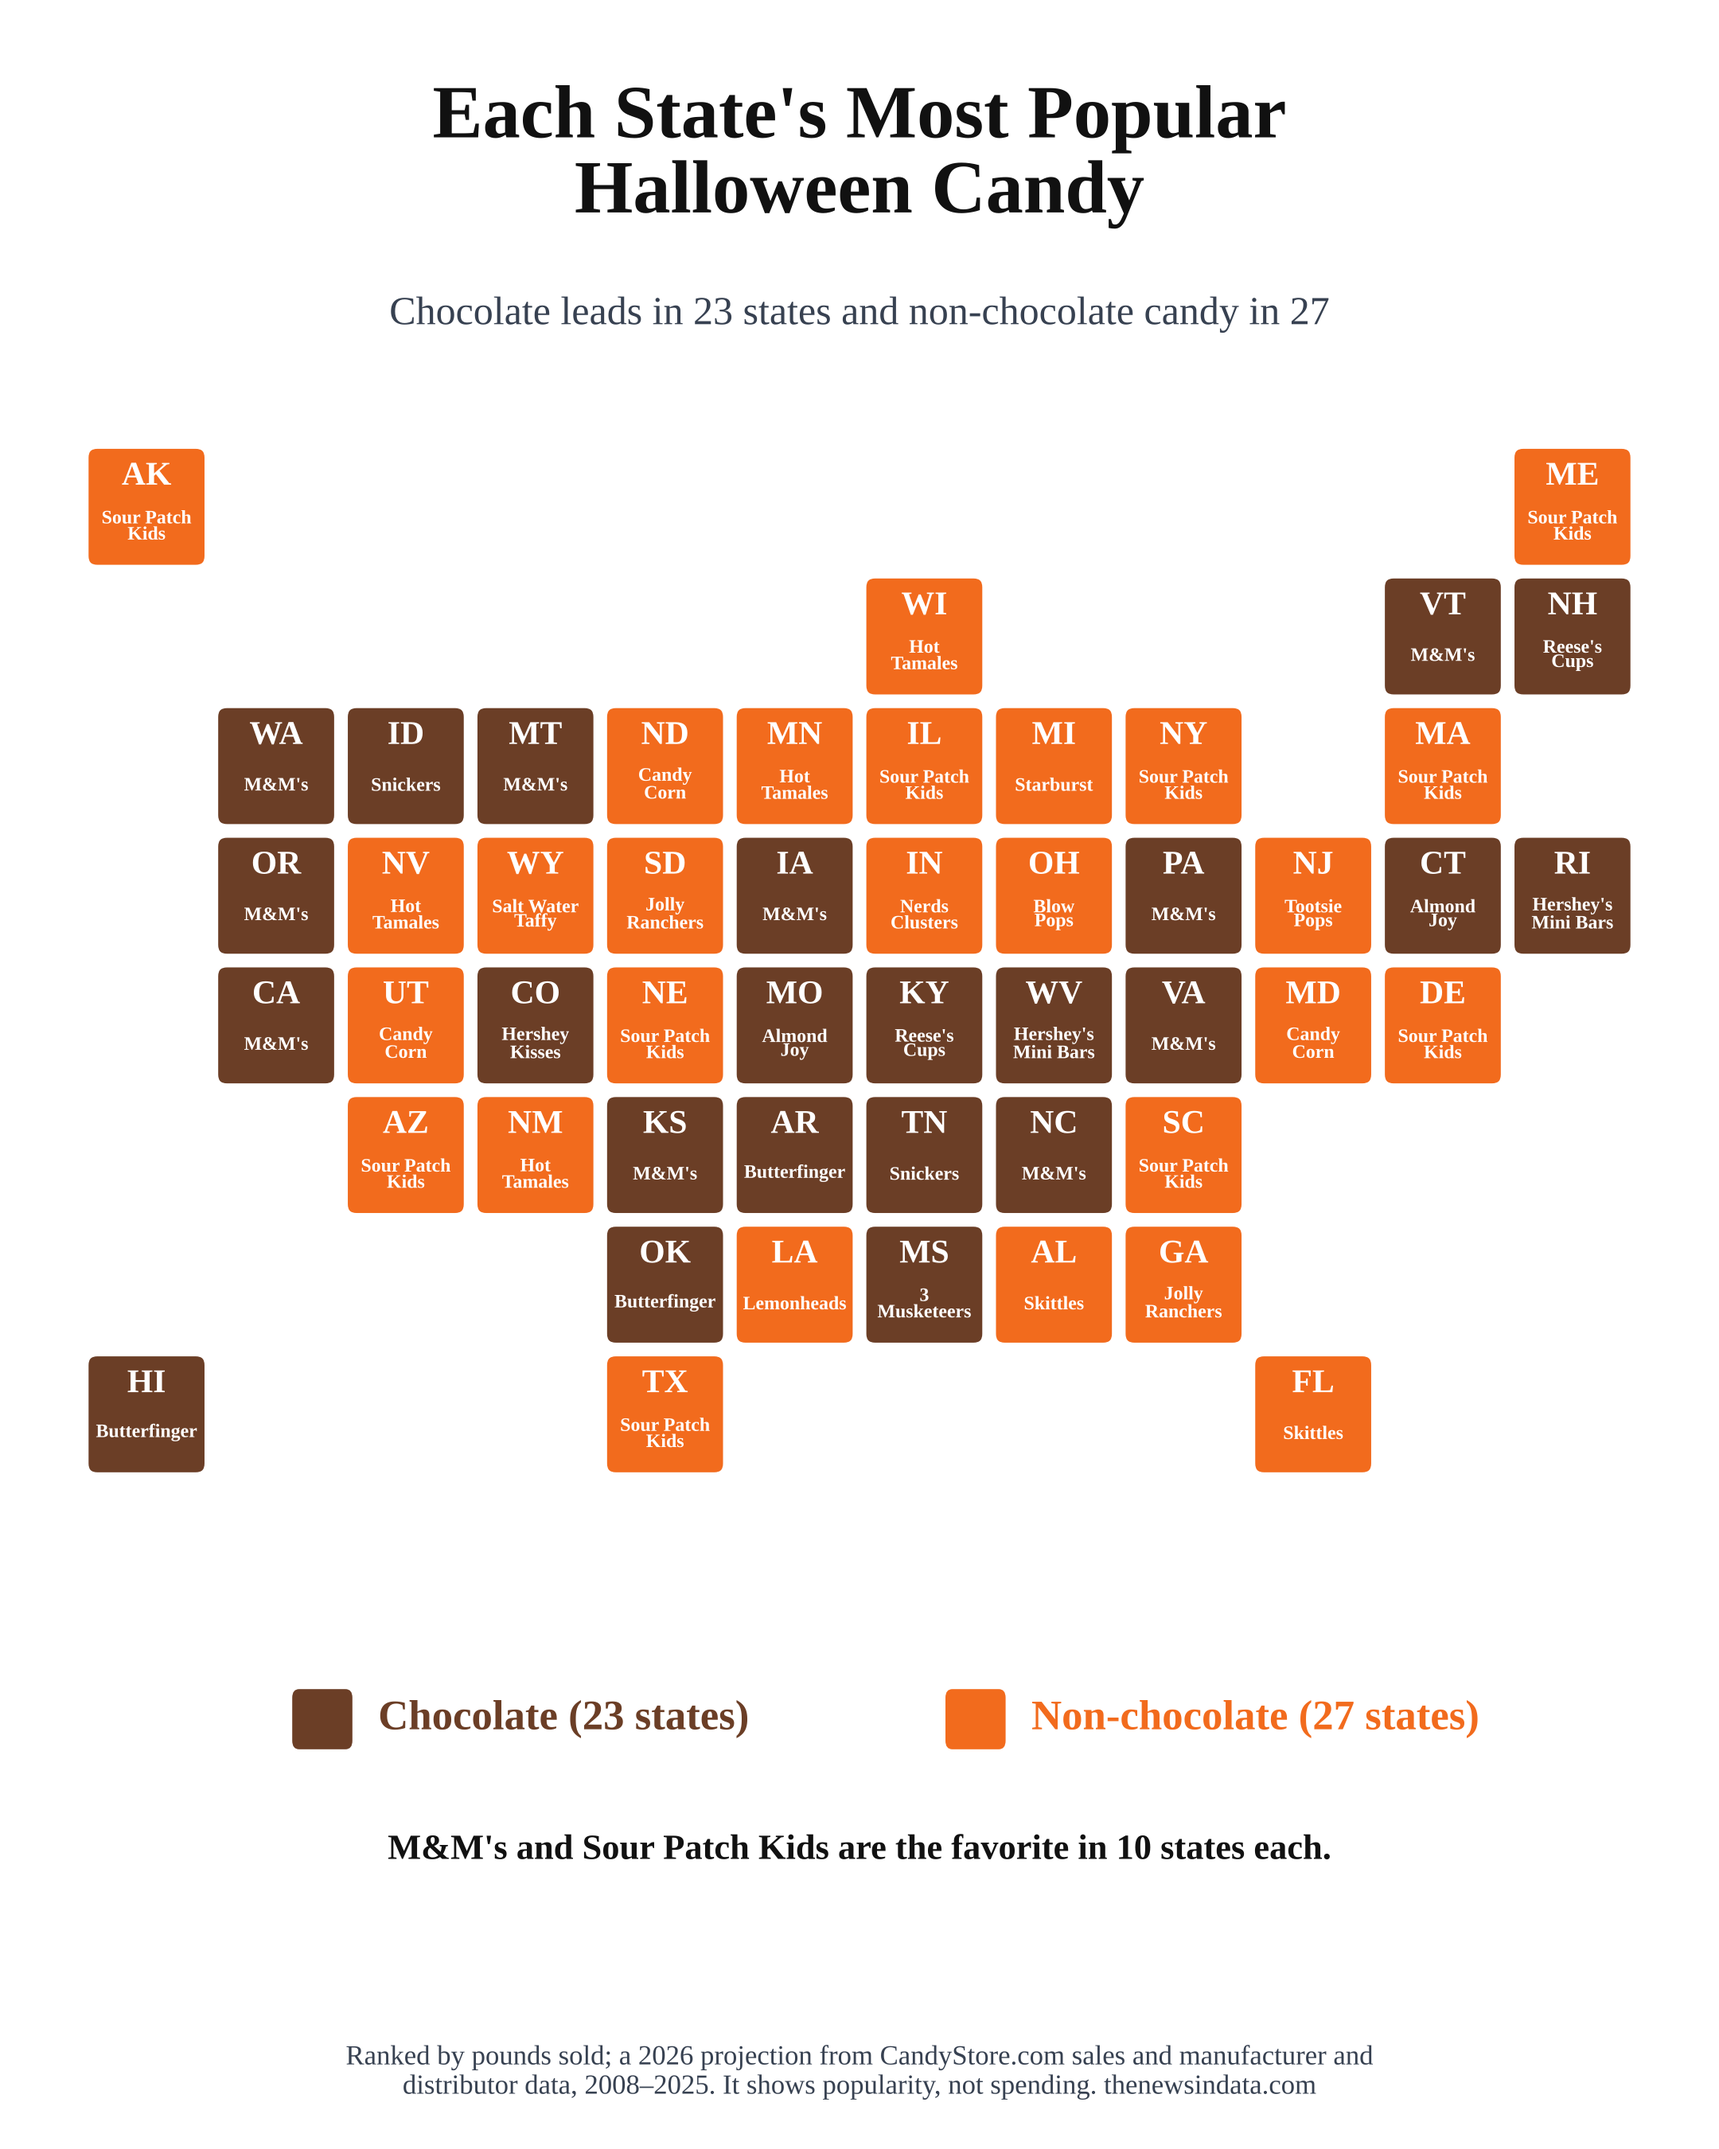
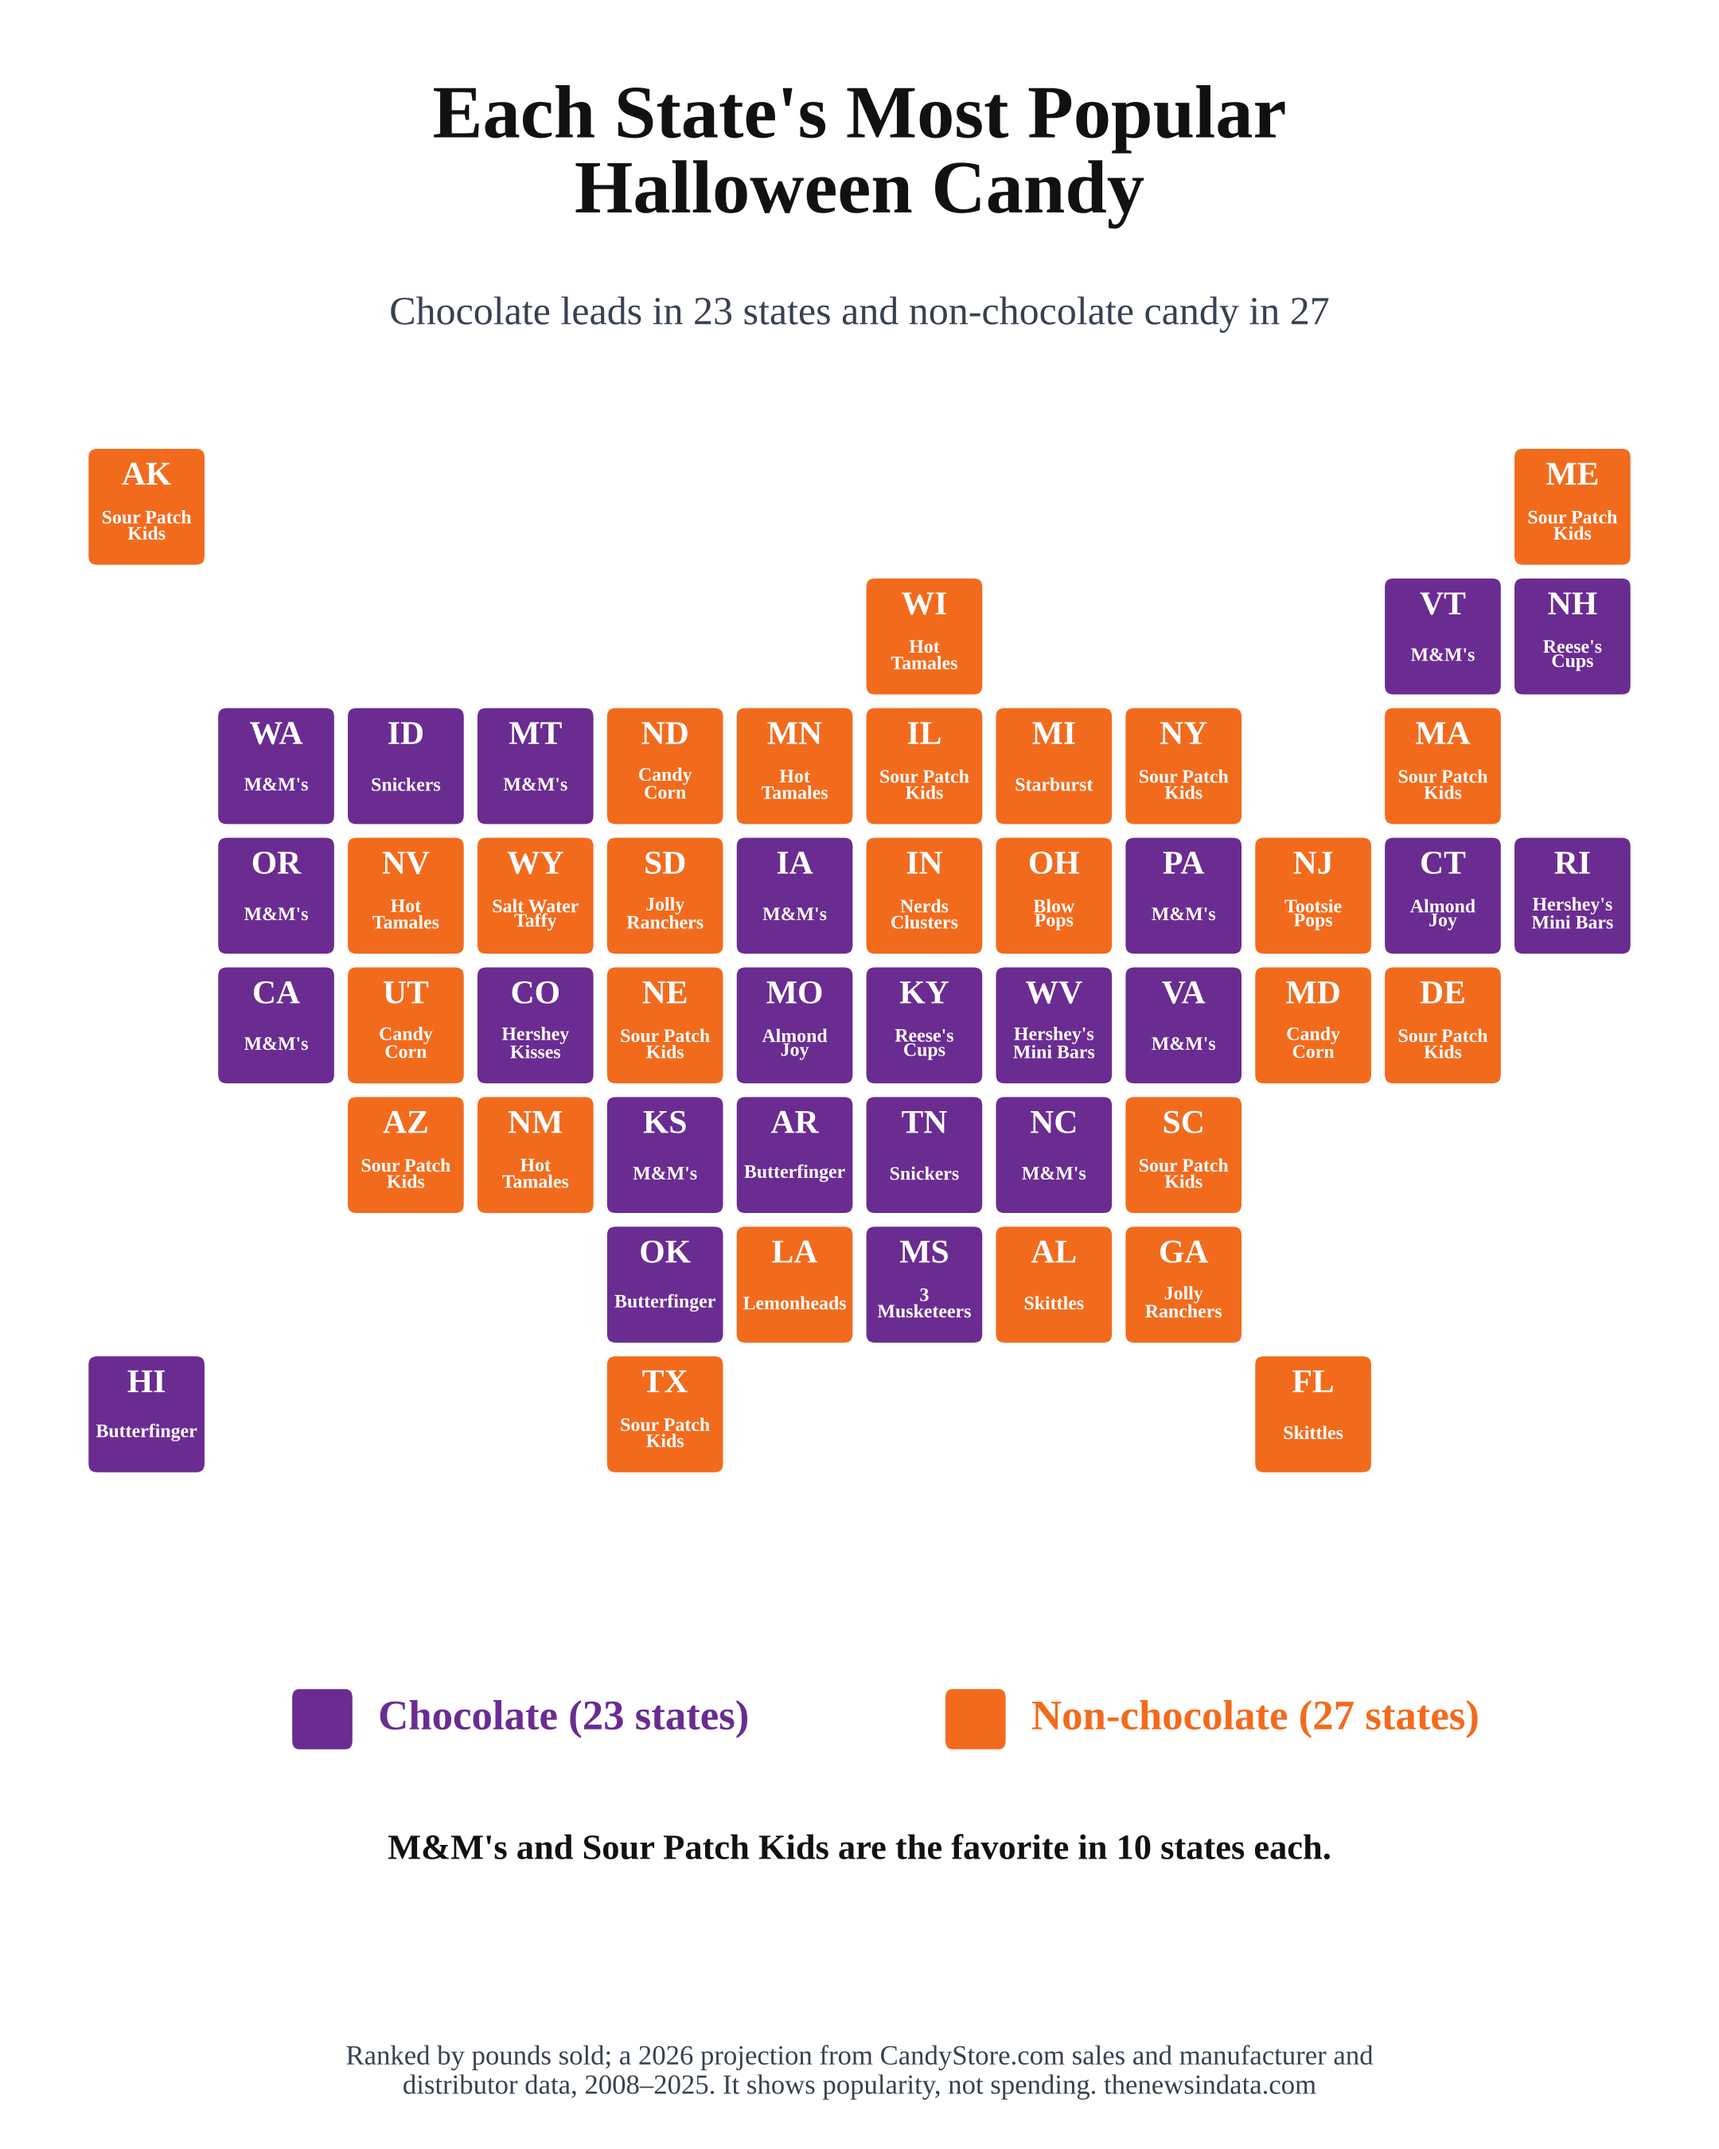
Halloween charts: consistent orange and purple palette
Claude-Session: https://claude.ai/code/session_014ps2HoqtiaDX9KtWWc6m6n

diff --git a/halloween/post-body.html b/halloween/post-body.html
@@ -1,6 +1,6 @@
 <style>.nid-a h2{margin:1.6em 0 .5em}.nid-a .nid-fig{margin:2.4em auto;max-width:620px}.nid-a .nid-fig img{width:100%;height:auto;display:block;border:1px solid #e6e3dd;border-radius:6px}.nid-a .nid-photo{max-width:520px}.nid-a .nid-fig figcaption{font-size:.82em;color:#5f7268;margin-top:.5em;line-height:1.4}.nid-a .nid-method{font-size:.92em;margin-top:2em}.nid-a .nid-fig.nid-wide{max-width:100%}.nid-a .nid-wide img{border-radius:8px}</style><div class="nid-a">
 <p>The United States had 30 children ages 5 to 14, the group the Census Bureau calls potential trick-or-treaters, for every 100 households in 2025, down from 35 in 2010. The number of children has edged down while the number of households has grown by about 17 million, so each door can expect fewer knocks. Fewer people also plan to answer: 61% of adults in this year's National Retail Federation survey plan to hand out candy, down from 69% in 2019.</p>
-<figure class="nid-fig"><img src="https://stories.thenewsindata.com/halloween/halloween-chart.png?v=1" alt="Two charts. The number of children ages 5 to 14 per 100 U.S. households fell from 34.9 in 2010 to 30.0 in 2025. The share of adults planning to hand out candy fell from 69% in 2019 to 61% in 2026." width="1080" height="1350"></figure>
+<figure class="nid-fig"><img src="https://stories.thenewsindata.com/halloween/halloween-chart.png?v=2" alt="Two charts. The number of children ages 5 to 14 per 100 U.S. households fell from 34.9 in 2010 to 30.0 in 2025. The share of adults planning to hand out candy fell from 69% in 2019 to 61% in 2026." width="1080" height="1350"></figure>
 <h2>Fewer children, more households</h2>
 <p>There were about 40.4 million children ages 5 to 14 in 2025, roughly 1.2 million fewer than in 2020, according to Census Bureau population estimates, as lower birth rates since 2008 move through the age group. The number of households grew from 117.5 million in 2010 to 134.8 million in 2025. Households have grown far faster than the number of children, so more homes on a typical street have no trick-or-treaters of their own.</p>
 <figure class="nid-fig nid-photo nid-wide"><img src="https://upload.wikimedia.org/wikipedia/commons/thumb/1/18/Schriever_AFB_hosts_trick-or-treat%2C_Halloween_Parade_%285884502%29.jpg/1280px-Schriever_AFB_hosts_trick-or-treat%2C_Halloween_Parade_%285884502%29.jpg" alt="A toddler in a white bunny costume outdoors in the snow" loading="lazy"><figcaption>A young trick-or-treater in a bunny costume at a Halloween parade in Colorado. Photo: <a href="https://commons.wikimedia.org/wiki/File:Schriever_AFB_hosts_trick-or-treat,_Halloween_Parade_(5884502).jpg">U.S. Air Force</a>, <a href="https://commons.wikimedia.org/wiki/Commons:Licensing">Public domain</a>, via Wikimedia Commons.</figcaption></figure>
@@ -11,13 +11,13 @@
 <figure class="nid-fig nid-photo nid-wide"><img src="https://upload.wikimedia.org/wikipedia/commons/thumb/7/74/Jack-O-Lantern_at_night.jpg/1280px-Jack-O-Lantern_at_night.jpg" alt="A carved jack-o-lantern glowing at night" loading="lazy"><figcaption>A jack-o-lantern on a porch. Photo: <a href="https://commons.wikimedia.org/wiki/File:Jack-O-Lantern_at_night.jpg">Alabama Extension</a>, <a href="https://creativecommons.org/publicdomain/zero/1.0/">CC0</a>, via Wikimedia Commons.</figcaption></figure>
 <h2>Each state&#x27;s favorite candy</h2>
 <p>No government agency or trade group publishes Halloween spending by state, so the map shows the next best thing, each state's most popular Halloween candy by pounds sold, from CandyStore.com. M&amp;M's and Sour Patch Kids lead 10 states each, and a non-chocolate candy is the favorite in 27 states. Utah, Maryland and North Dakota pick candy corn, Ohio picks Blow Pops and Wyoming picks salt water taffy.</p>
-<figure class="nid-fig"><img src="https://stories.thenewsindata.com/halloween/halloween-candy-map.png?v=1" alt="Tile map of each state&#x27;s most popular Halloween candy in 2026. Chocolate leads in 23 states and non-chocolate candy in 27; M&amp;M&#x27;s and Sour Patch Kids lead 10 states each." width="1080" height="1350"></figure>
+<figure class="nid-fig"><img src="https://stories.thenewsindata.com/halloween/halloween-candy-map.png?v=2" alt="Tile map of each state&#x27;s most popular Halloween candy in 2026. Chocolate leads in 23 states and non-chocolate candy in 27; M&amp;M&#x27;s and Sour Patch Kids lead 10 states each." width="1080" height="1350"></figure>
 <h2>Forty years of candy spending, region by region</h2>
 <p>The Bureau of Labor Statistics tracks what households spend on "sugar and other sweets," mostly candy and gum, by region. After adjusting for inflation, spending in every region drifted down from the mid-1990s to the late 2010s, then rose quickly in the 2020s. Western households spend the most, an average of $257 a year over 2022 to 2024 in 2024 dollars, and Southern households the least, $208.</p>
-<figure class="nid-fig"><img src="https://stories.thenewsindata.com/halloween/halloween-sweets.png?v=1" alt="Line chart of inflation-adjusted household spending on sugar and other sweets by Census region, 1984 to 2024. Spending fell from the mid-1990s to the late 2010s and rose in the 2020s; the West spends the most and the South the least." width="1080" height="1350"></figure>
+<figure class="nid-fig"><img src="https://stories.thenewsindata.com/halloween/halloween-sweets.png?v=2" alt="Line chart of inflation-adjusted household spending on sugar and other sweets by Census region, 1984 to 2024. Spending fell from the mid-1990s to the late 2010s and rose in the 2020s; the West spends the most and the South the least." width="1080" height="1350"></figure>
 <h2>Spider-Man and witches lead the costumes</h2>
 <p>About 4.6 million children plan to dress as Spider-Man, twice as many as the next costume, a generic superhero. Witch is the top adult costume at 4.8 million, followed by vampire at 4.2 million.</p>
-<figure class="nid-fig"><img src="https://stories.thenewsindata.com/halloween/halloween-costumes.png?v=1" alt="Bar charts of the top Halloween costumes in 2026. Children: Spider-Man 4.6 million, superhero 2.3 million, princess 2.2 million. Adults: witch 4.8 million, vampire 4.2 million, Batman 2 million." width="1080" height="1350"></figure>
+<figure class="nid-fig"><img src="https://stories.thenewsindata.com/halloween/halloween-costumes.png?v=2" alt="Bar charts of the top Halloween costumes in 2026. Children: Spider-Man 4.6 million, superhero 2.3 million, princess 2.2 million. Adults: witch 4.8 million, vampire 4.2 million, Batman 2 million." width="1080" height="1350"></figure>
 <p>Pets get costumes too. Pumpkin is the most popular pet costume, chosen by 11.6% of people dressing up a pet, followed by hot dog at 5.9%.</p>
 <figure class="nid-fig nid-photo nid-wide"><img src="https://upload.wikimedia.org/wikipedia/commons/thumb/f/ff/Hotdog_dog_costume_%288106428599%29.jpg/1280px-Hotdog_dog_costume_%288106428599%29.jpg" alt="A shiba inu wearing a hot dog costume on a leash" loading="lazy"><figcaption>A dog dressed as a hot dog, the second most popular pet costume this year. Photo: <a href="https://commons.wikimedia.org/wiki/File:Hotdog_dog_costume_(8106428599).jpg">Petful</a>, <a href="https://creativecommons.org/licenses/by/2.0/">CC BY 2.0</a>, via Wikimedia Commons.</figcaption></figure>
 <h2>What the data can&#x27;t tell us</h2>
